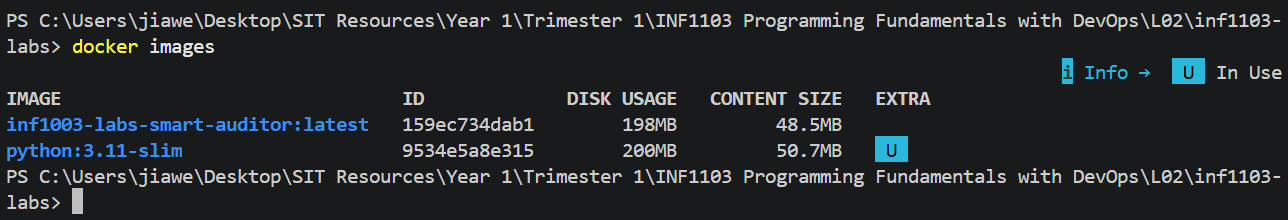
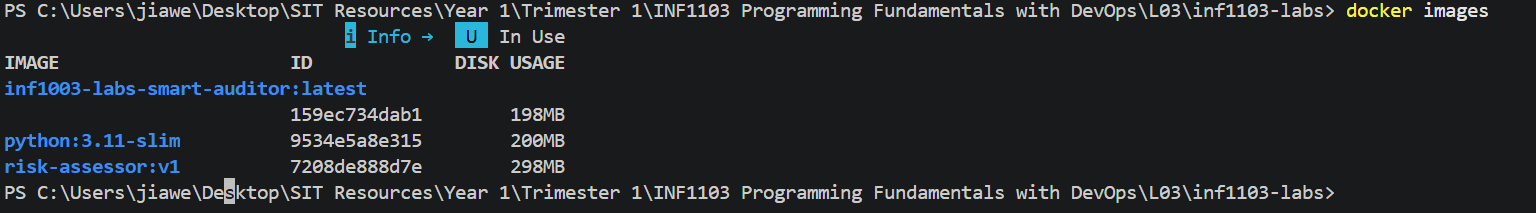
C:\Users\jiawe\Desktop\SIT Resources\Year 1\Trimester 1\INF1103 Programming Fundamentals with DevOps\L04\inf1103-labs

diff --git a/persistent_auditor.py b/persistent_auditor.py
@@ -1,0 +1,39 @@
+"""
+INF1103 / INF1003 Lab: Smart Inventory Auditor
+File: persistent_auditor.py
+Description: Interactive script to audit daily stock deliveries, handle invalid inputs,
+             enforce inventory limits, and manage state across user sessions using persistent storage.
+"""
+
+import os
+
+INVENTORY_FILE = "inventory.txt"
+
+
+def load_inventory(filepath=INVENTORY_FILE):
+    """
+    Requirement 1 & 4: Reads total inventory and history from file if it exists.
+    If file doesn't exist, starts with 0 and an empty list without throwing an error.
+    """
+    if not os.path.exists(filepath):
+        print(f"[INFO] '{filepath}' not found. Starting with clean inventory.\n")
+        return 0, []
+
+    try:
+        with open(filepath, "r") as f:
+            lines = [line.strip() for line in f.readlines() if line.strip()]
+
+        if not lines:
+            return 0, []
+
+        total_inventory = int(lines[0])
+        history = []
+        if len(lines) > 1 and lines[1]:
+            history = [int(x) for x in lines[1].split(",") if x.strip().isdigit()]
+
+        print(f"[INFO] Loaded existing state: Total = {total_inventory}, History = {history}\n")
+        return total_inventory, history
+    except Exception as e:
+        print(f"[WARNING] Could not read '{filepath}' ({e}). Starting fresh.\n")
+        return 0, []
+
